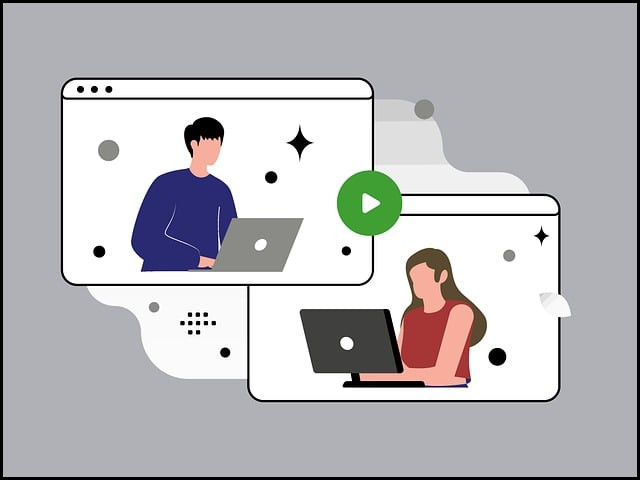
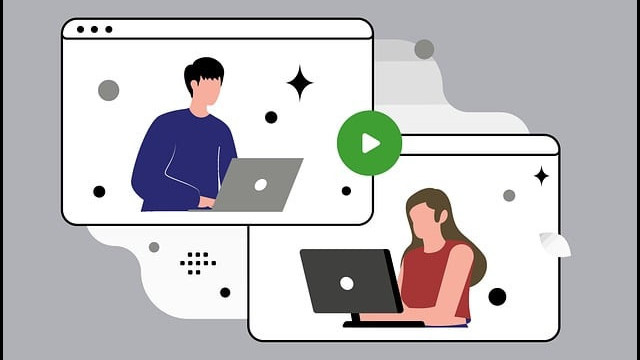
Updates

diff --git a/content/thoughts/esp32-server-distributing-http2-streams-over-tls/index.md b/content/thoughts/esp32-server-distributing-http2-streams-over-tls/index.md
@@ -1,0 +1,353 @@
++++
+date = 2026-06-12
+description = "Walks through the code and technologies used to set-up a secure HTTP/2 server using a Xtensa ESP32 board (ESP32-WROVER-E)."
+title = "ESP32 Server: Distributing HTTP/2 streams over TLS"
+
+[taxonomies]
+tags = ["esp32", "rust", "tls", "wtx"]
+
+[extra]
+image = "/thoughts/esp32-server-distributing-http2-streams-over-tls/intro.avif"
++++
+
+> Intended to showcase the possibilities of the <a href="https://github.com/c410-f3r/wtx">WTX</a> project rather than serve as a production tool. In regards to the exchange of remote data most embedded devices resort to `MQTT`.
+
+<figure class="image is-16by9">
+  <iframe
+    allowfullscreen
+    class="has-ratio pb-5"
+    frameborder="0"
+    height="360"
+    src="/thoughts/esp32-server-distributing-http2-streams-over-tls/intro.mp4"
+    width="640"
+  ></iframe>
+  <figcaption>Deploying program and serving responses</figcaption>
+</figure>
+
+<a href = "https://c410-f3r.github.io/thoughts/securely-sending-dht22-sensor-data-from-an-esp32-board-to-postgresql">The last post about embedded</a> is outdated: The WTX crate introduced breaking changes, the Embassy project introduced breaking changes and the ESP crates introduced breaking changes.
+
+This post will probably also become outdated in the following years but it will at least deliver yet another never-done-before use-case: Make an ESP32 board process HTTP/2 requests over TLS 1.3 using Rust.
+
+Well, at least I am not aware of anyone else that did this before so let me know if I am mistaken.
+
+Topics are organized as introductory explanations followed by code comments. The full project is available at <a href="/thoughts/esp32-server-distributing-http2-streams-over-tls/data.tar.xz">data.tar.xz</a>.
+
+## Technologies
+
+<figure class="image">
+  <img src="/thoughts/esp32-server-distributing-http2-streams-over-tls/flow.avif" alt="Receiving flow">
+  <figcaption>Receiving flow</figcaption>
+</figure>
+
+#### Board
+
+This project is implemented on the `ESP32-WROVER-E`, a 32-bit dual-core development board with Wi-Fi, 448 KiB of ROM, 520 KiB of RAM, Bluetooth, 4 MiB of Flash, built-in PCB antenna, 40 different pins, a camera and several other features. Quite affordable considering the place where I live.
+
+Broadly speaking, ESP32 is a series of low-cost, low-power system-on-chip microcontrollers created and developed by Espressif Systems, a Chinese company based in Shanghai.
+
+#### ESP crates
+
+The embedded world is generally dominated by C toolchains but thankfully we are now witnessing a growing shift towards Rust-based alternatives. Moreover, Espressif Systems provides ***official*** libraries, documentation and tools that can help creating, compiling, debugging and deploying binaries.
+
+Taking advantage of the official Rust crates, we are going to use them to basically communicate with the hardware.
+
+1. Bootstrap the application.
+2. Connect to a local network using the Wi-Fi.
+3. Generate random seeds suitable for cryptographic operations.
+4. Reserve memory for heap allocations.
+
+#### Embassy
+
+Embassy is a modern embedded framework offering high-level async interfaces for bare-metal hardware. Here we use `embassy-executor`, `embassy-net` and `embassy-time` to manage the runtime, TCP streams and elapsed time.
+
+#### WTX
+
+<a href="https://github.com/c410-f3r/wtx">WTX</a> is, among other things, a [RFC5280](https://datatracker.ietf.org/doc/html/rfc5280), [RFC6455](https://datatracker.ietf.org/doc/html/rfc6455), [RFC9113](https://datatracker.ietf.org/doc/html/rfc9113) and [RFC9846](https://datatracker.ietf.org/doc/html/rfc9846) implementation intended to allow the development of web applications through a built-in server framework, a built-in `PostgreSQL` connector, a built-in `WebSocket` handler and a built-in `gRPC` manager. There is also a built-in API client framework that facilitates the maintainability of large endpoints.
+
+Some associated benchmarks are available at <https://github.com/MDA2AV/HttpArena>, <https://github.com/diesel-rs/metrics> and <https://c410-f3r.github.io/wtx-bench>.
+
+## Certificates
+
+This section is mandatory! Without a custom certificate the server **will not** work on local networks!
+
+`WTX` has a strict set of X.509 rules derived from the `x509-limbo` testsuite that prevents the utilization of files created from a default `OpenSSL` CLI template, as such, it is necessary to provide additional information to forge certificates.
+
+The recurring stumbling block is that Intermediate CAs or Root CAs need a Subject Key Identifier and if an Authority Key Identifier extension exists in a self-signed certificate, it must match the SKI.
+
+```bash
+CERTS_DIR="$(dirname $0)/../.certs"
+
+openssl genpkey -algorithm ed25519 -out $CERTS_DIR/key.pem
+openssl req -new -key $CERTS_DIR/key.pem -subj "/C=FI/CN=vahid" -out $CERTS_DIR/key.csr
+openssl genpkey -algorithm ed25519 -out $CERTS_DIR/root-ca.key
+openssl req -x509 -sha256 -days 3650 -subj "/C=FI/CN=vahid Root CA" \
+  -key $CERTS_DIR/root-ca.key \
+  -out $CERTS_DIR/root-ca.crt \
+  -addext "authorityKeyIdentifier=keyid:always,issuer" \
+  -addext "basicConstraints=critical,CA:TRUE" \
+  -addext "subjectKeyIdentifier=hash"
+cat <<'EOF' > $CERTS_DIR/localhost.ext
+authorityKeyIdentifier=keyid,issuer
+basicConstraints=CA:FALSE
+subjectAltName = @alt_names
+subjectKeyIdentifier=hash
+[alt_names]
+DNS.1 = localhost
+IP.1 = 127.0.0.1 
+IP.2 = BOARD_IP <------ !!!!! Replace "BOARD_IP" with the ip assigned in you network !!!!!
+EOF
+openssl x509 -req -CA $CERTS_DIR/root-ca.crt -CAkey $CERTS_DIR/root-ca.key \
+  -in $CERTS_DIR/key.csr -out $CERTS_DIR/cert.pem \
+  -days 398 -CAcreateserial -extfile $CERTS_DIR/localhost.ext
+cat $CERTS_DIR/cert.pem $CERTS_DIR/root-ca.crt > $CERTS_DIR/fullchain.pem
+rm $CERTS_DIR/key.csr
+rm $CERTS_DIR/localhost.ext
+rm $CERTS_DIR/root-ca.srl
+```
+
+Replace `BOARD_IP` with the IP your board gets at runtime or switch from DHCP to a static IP.
+
+You can find a longer explanation about the additional files that are required to make the code build in the last post about embedded or dive into the project's directory. For a quick review, `.cargo/config.toml`, `rust-toolchain` and `build.rs` demand special handling.
+
+## Code comments
+
+Just a few notes to clarify what is going on. In the end the application will listen to connections on port 9000 to deliver a simple "Hello World" from GET requests.
+
+#### Initialization
+
+According to `esp-hal`, `esp_hal::rng::Rng` produces random numbers suitable for cryptographic and general-purpose use as long as an `RF` subsystem or `ADC` is active. Since we use the built-in Wi-Fi the result should be safe for the public environments.
+
+```rust
+async fn init_peripherals(spawner: &Spawner) -> (ChaCha20, Stack<'static>) {
+  let config = esp_hal::Config::default().with_cpu_clock(CpuClock::max());
+  let peripherals = esp_hal::init(config);
+  esp_alloc::heap_allocator!(#[esp_hal::ram(reclaimed)] size: 96000);
+
+  let timg0 = TimerGroup::new(peripherals.TIMG0);
+  let sw_interrupt = SoftwareInterruptControl::new(peripherals.SW_INTERRUPT);
+  esp_rtos::start(timg0.timer0, sw_interrupt.software_interrupt0);
+
+  let esp_rng = esp_hal::rng::Rng::new();
+  let mut seed = [0u8; 32];
+  for chunk in seed.chunks_mut(4) {
+    chunk.copy_from_slice(&esp_rng.random().to_ne_bytes());
+  }
+  let mut rng = ChaCha20::from_key(seed);
+
+  let (wifi_controller, interfaces) = wifi::new(peripherals.WIFI, <_>::default()).unwrap();
+  let (stack, runner) = embassy_net::new(
+    interfaces.station,
+    embassy_net::Config::dhcpv4(Default::default()),
+    STACK_RESOURCES.init(StackResources::new()),
+    u64::from_be_bytes(rng.u8_8()),
+  );
+
+  spawner.spawn(net_task(runner).unwrap());
+  spawner.spawn(wifi_task(wifi_controller).unwrap());
+
+  log::debug!("Waiting for network");
+  stack.wait_config_up().await;
+  log::debug!("Got IP: {}", stack.config_v4().unwrap().address);
+
+  (rng, stack)
+}
+```
+
+The rest of `init_peripherals` boots the hardware and reserves heap space, which is mandatory.
+
+```rust
+#[embassy_executor::task]
+async fn net_task(mut runner: Runner<'static, Interface<'static>>) -> ! {
+  runner.run().await
+}
+
+#[embassy_executor::task]
+async fn wifi_task(mut controller: WifiController<'static>) {
+  let config = wifi::Config::Station(
+    StationConfig::default().with_ssid(WIFI_SSID).with_password(WIFI_PW.into()),
+  );
+  controller.set_config(&config).unwrap();
+  log::debug!("Initializing connecting with WiFi");
+  loop {
+    match controller.connect_async().await {
+      Ok(_) => break,
+      Err(err) => {
+        log::debug!("Attempt to connect to WiFi resulted in an error: {err:?}");
+        Timer::after(Duration::from_millis(2000)).await;
+        continue;
+      }
+    }
+  }
+  log::debug!("WiFi connection has been successfully established");
+  let _ = controller.wait_for_disconnect_async().await;
+}
+```
+
+`net_task` and `wifi_task` run in the background for the lifetime of the application.
+
+#### Epoch Synchronization
+
+Certificates expire, so the application must track the current time to let the TLS layer check validity.
+
+`fetch_and_set_epoch_offset` sends a UDP request to the IP resolved from `pool.ntp.org` and converts the NTP epoch (since 1900) into a UNIX timestamp (since 1970).
+
+```rust
+async fn sync_epoch(stack: Stack<'_>) {
+  log::debug!("Synchronizing epoch");
+  let (rx_buffer, rx_meta) = (&mut [0; 128], &mut [PacketMetadata::EMPTY; 4]);
+  let (tx_buffer, tx_meta) = (&mut [0; 128], &mut [PacketMetadata::EMPTY; 4]);
+  let mut socket = UdpSocket::new(stack, rx_meta, rx_buffer, tx_meta, tx_buffer);
+  socket.bind(0).unwrap();
+  let addrs = stack.dns_query("pool.ntp.org", DnsQueryType::A).await.unwrap();
+  let socket_addr = SocketAddr::new(addrs.into_iter().next().unwrap().into(), 123);
+  loop {
+    if fetch_and_set_epoch_offset(socket_addr, &mut socket).await.unwrap() {
+      break;
+    }
+  }
+  log::debug!("Epoch has been successfully synchronized: {:?}", Instant::now_date_time().unwrap());
+}
+```
+
+#### TLS Configuration
+
+Due to the constrained environment records are capped at 2048 bytes for receiving/sending and clients must complete the TLS handshake using `X25519` key agreement with the `Chacha20Poly1305Sha256` cipher suite.
+
+`ESP-WROVER-E` advertises `AES` support but it is unclear whether these instructions are actually exercised, so `Chacha20Poly1305Sha256` was chosen as a safer alternative.
+
+As shown in the certificates section all files use `Ed25519`, which is faster and far smaller than RSA signatures.
+
+HTTP/2 servers must also announce support through the ALPN extension.
+
+```rust
+fn create_tls_config(rng: &mut ChaCha20) -> TlsConfig<TlsModeVerified> {
+  let secret_context = SecretContext::new(rng).unwrap();
+  let mut tls_config = TlsConfig::from_keys_pem(
+    TlsModeVerified::new(),
+    PUBLIC_KEY,
+    rng,
+    (secret_context, &mut SECRET_KEY.clone()),
+  )
+  .unwrap();
+  tls_config
+    .alpn_mut()
+    .get_or_insert_default()
+    .protocol_name_list
+    .push(b"h2".try_into().unwrap())
+    .unwrap();
+  tls_config.cipher_suites_mut().clear();
+  tls_config.cipher_suites_mut().push(CipherSuite::Chacha20Poly1305Sha256).unwrap();
+  *tls_config.max_fragment_length_mut() = Some(MaxFragmentLength::_2048);
+  *tls_config.max_fragment_length_send_mut() = Some(MaxFragmentLength::_2048);
+  tls_config.supported_groups_mut().named_group_list.clear();
+  tls_config.supported_groups_mut().named_group_list.push(NamedGroup::X25519).unwrap();
+  tls_config
+}
+```
+
+#### Connection management
+
+The final piece. After a TCP connection is accepted `WTX` performs a TLS handshake and then an HTTP/2 handshake totalling 8 network trips (3 TCP<sup>1</sup> + 3 TLS<sup>2</sup> + 2 HTTP/2<sup>3</sup>).
+
+The elephant in the room is the fact that even if HTTP/2 supports multiple concurrent streams per connection, `TcpSocket` can not be shared across tasks, which makes this particular HTTP/2 server act similarly to a HTTP/1 in the sense that we are stuck to a single stream per connection.
+
+On the upside, streams are long-lived, bidirectional and once a stream closes a new one can be opened without redoing the TCP + TLS + HTTP/2 handshakes.
+
+```rust
+#[esp_rtos::main]
+async fn main(spawner: Spawner) {
+  esp_println::logger::init_logger(log::LevelFilter::Debug);
+  let (mut rng, stack) = init_peripherals(&spawner).await;
+  sync_epoch(stack).await;
+  let (mut rx_buffer, mut tx_buffer) = ([0; 4096], [0; 4096]);
+  let mut socket = TcpSocket::new(stack, &mut rx_buffer, &mut tx_buffer);
+  let tls_config = create_tls_config(&mut rng);
+  loop {
+    log::debug!("Awaiting for a connection");
+    socket.accept(9000).await.unwrap();
+    manage_connection(&mut rng, &mut socket, &tls_config).await;
+    socket.abort();
+  }
+}
+
+async fn manage_connection(
+  rng: &mut ChaCha20,
+  socket: &mut TcpSocket<'_>,
+  tls_config: &TlsConfig<TlsModeVerified>,
+) {
+  log::debug!("Initiating TLS");
+  let tcr = TlsAcceptor::new(&tls_config, &mut *rng, socket).accept().await.unwrap();
+  let parts = tcr.tls_stream.into_split().unwrap();
+
+  log::debug!("Initiating HTTP/2");
+  let hb = Http2Buffer::new(rng);
+  let hrp = HttpRecvParams::with_optioned_params();
+  let (frame_reader, http2) = Http2::accept(hb, hrp, parts).await.unwrap();
+  let mut frame_reader_pin = pin!(frame_reader);
+  let mut stream_pin = pin!(http2.stream(stream_cb));
+  loop {
+    match select(frame_reader_pin.as_mut(), stream_pin.as_mut()).await {
+      Either::First(_) => break,
+      Either::Second(rslt) => {
+        if !manage_stream(rslt.unwrap()).await {
+          break;
+        }
+        stream_pin.set(http2.stream(stream_cb));
+      }
+    }
+  }
+}
+```
+
+## Binary comments
+
+With compile flags tuned for binary size over runtime performance, the program occupies **1,160,800** bytes and flashes in 1m05s. Further reduction does not appear possible on a stable toolchain.
+
+```bash
+$ .scripts/run.sh 
+[2026-07-19T22:41:10Z INFO ] Serial port: '/dev/ttyUSB0'
+[2026-07-19T22:41:10Z INFO ] Connecting...
+[2026-07-19T22:41:16Z INFO ] Using flash stub
+Chip type:         esp32 (revision v1.1)
+Crystal frequency: 40 MHz
+Flash size:        4MB
+Features:          WiFi, BT, Dual Core, 240MHz, VRef calibration in efuse, Coding Scheme None
+MAC address:       XX:XX:XX:XX:XX:XX
+App/part. size:    1,160,896/4,128,768 bytes, 28.12%
+[00:01:05] [========================================]      45/45      0x10000  Verifying... OK!
+```
+
+For the sake of curiosity, the processor handled an average of 37.27 requests per second over a single connection with 128 streams when measured locally with `h2load`.
+
+```bash
+$ h2load https://BOARD_IP:9000 -n128
+
+finished in 3.48s, 37.27 req/s, 1.13KB/s
+requests: 128 total, 128 started, 128 done, 128 succeeded, 0 failed, 0 errored, 0 timeout
+status codes: 128 2xx, 0 3xx, 0 4xx, 0 5xx
+traffic: 3.94KB (4035) total, 128B (128) headers (space savings 90.00%), 1.50KB (1536) data
+                     min         max         mean         sd        +/- sd
+time for request:    15.06ms    118.20ms     25.18ms     10.96ms    91.41%
+time for connect:   209.99ms    209.99ms    209.99ms         0us   100.00%
+time to 1st byte:   328.20ms    328.20ms    328.20ms         0us   100.00%
+req/s           :      37.27       37.27       37.27        0.00   100.00%
+```
+
+## Final words
+
+<figure class="image">
+  <img src="/thoughts/esp32-server-distributing-http2-streams-over-tls/intro.avif" alt="ESP32-WROVER-R">
+  <figcaption>ESP32-WROVER-R</figcaption>
+</figure>
+
+For a 240 MHz processor with 4 MB of flash, execution was surprisingly smooth. I would even say it is viable for local deployments of anything an user wants to serve over a secure TLS connection (Streams could indeed replace WebSockets).
+
+That is it for this post. Unfortunately I couldn't extend the work from the previous post because there are no `no_std` `protobuf` codecs or available CAM drivers for the evaluated board.
+
+---
+
+**Notes:**
+
+1. TCP Handshake: SYN -> SYN-ACK -> ACK
+2. TLS Handshake: ClientHello -> ServerHello + EncryptedExtensions + Certificate + CertificateVerify + Finished -> Finished
+3. HTTP/2 Handshake: Preface + SettingsFrame -> SettingsFrame

diff --git a/content/thoughts/my-contributions-to-the-rust-project/index.md b/content/thoughts/my-contributions-to-the-rust-project/index.md
@@ -17,7 +17,7 @@ image = "/thoughts/my-contributions-to-the-rust-project/intro.jpg"
 
 All started with [https://github.com/rust-lang/rust/issues/60406#issuecomment-488306461] around ~4 years ago and since then I didn't stop contributing to the Rust compiler as well as other related projects like Clippy in my free time.
 
-Besides the technical skills learned, the things that stood out the most were the concentration of knowledge in the hands of few busy individuals that eventually parted away and a noticeable amount of good contributors passing through sensible financial problems but these are matters for another post.
+Besides the technical skills learned, the things that stood out the most were the concentration of knowledge in the hands of few busy individuals that eventually parted away and a noticeable amount of good contributors passing through sensible financial problems.
 
 Without further ado, let's list all my major contributions in chronological order.
 

diff --git a/content/thoughts/tls-handshakes-measuring-the-performance-of-4-cryptography-libraries/index.md b/content/thoughts/tls-handshakes-measuring-the-performance-of-4-cryptography-libraries/index.md
@@ -1,6 +1,6 @@
 +++
 date = 2026-06-12
-description = "Evaluates the combination of three key agreements, five signing algorithms and three cipher suites."
+description = "Evaluates the combination of three key agreements, five signing algorithms and three cipher suites in different crypto projects."
 title = "TLS Handshakes: Measuring the Performance of 4 Cryptography Libraries"
 
 [taxonomies]